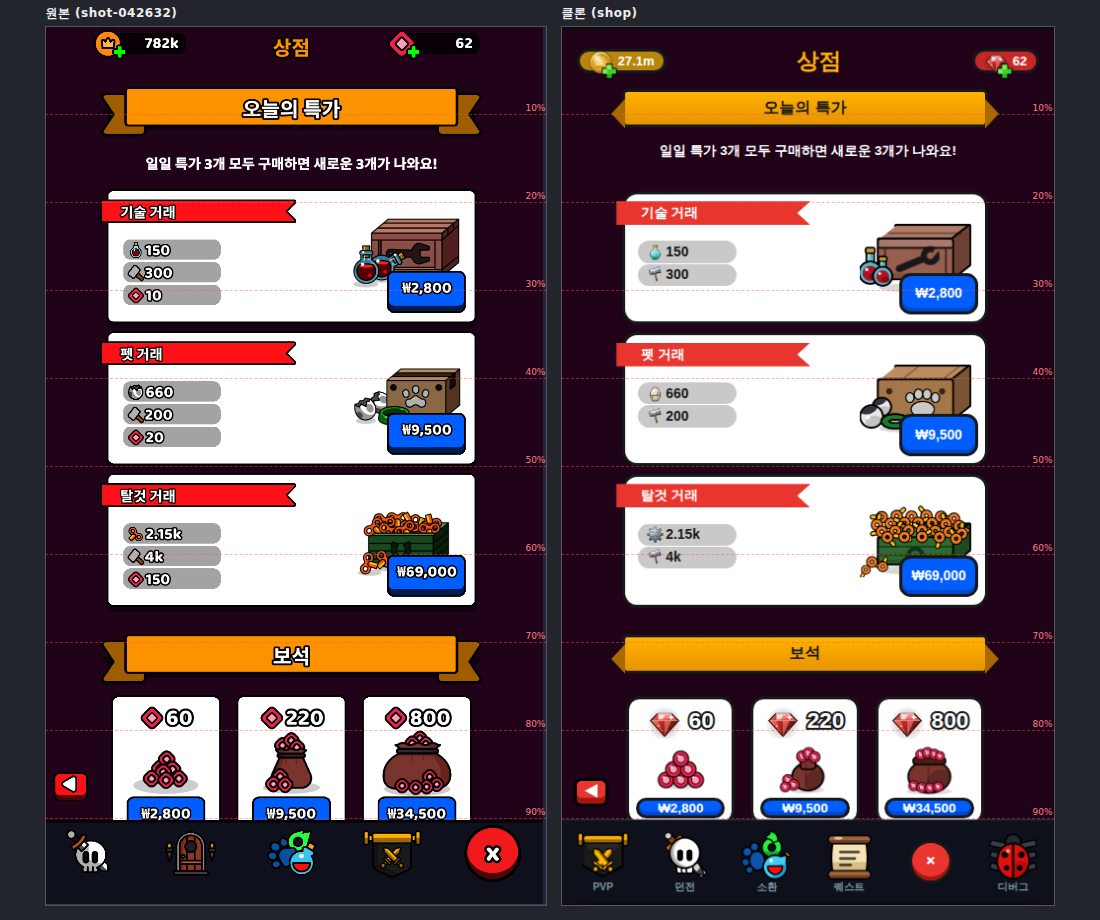
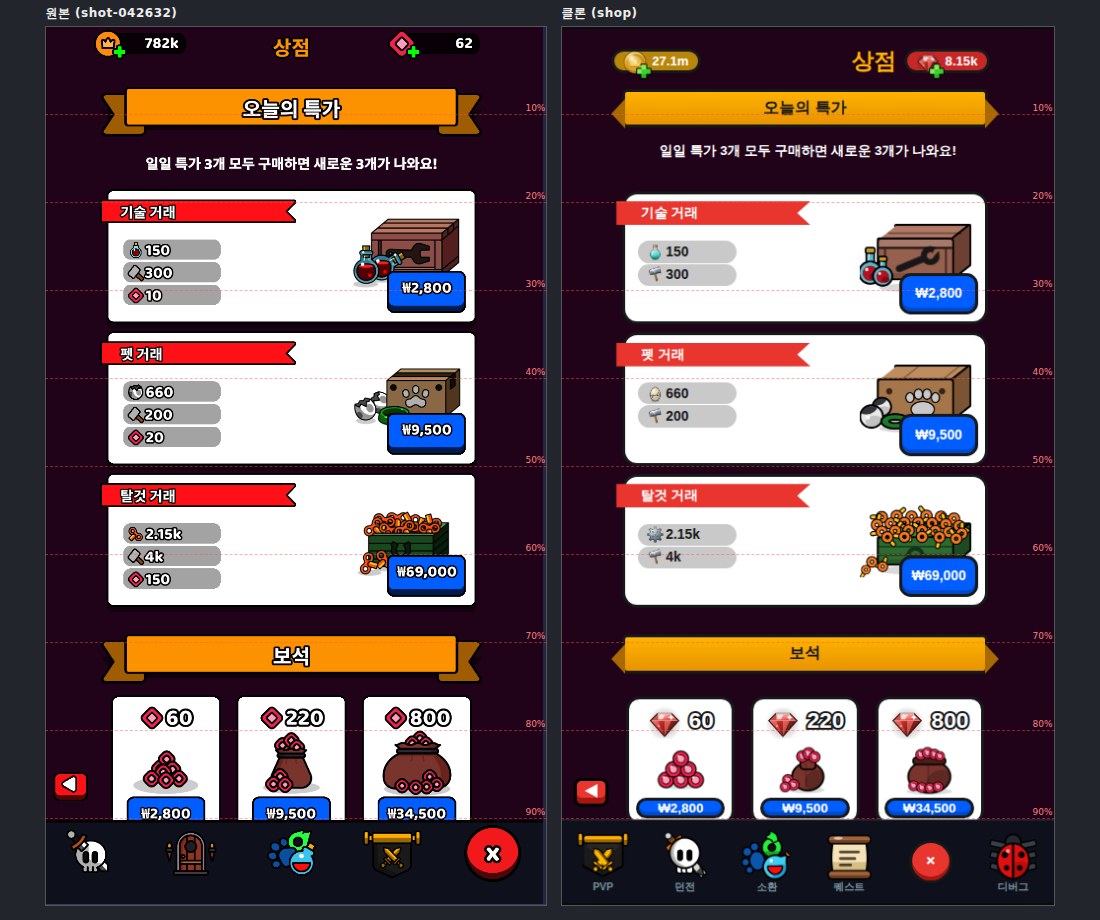
aaa-skin ③ 상점 — 상단 재화 pill 을 원본 고정 열로(코인 좌단 8.8%W·젬 좌단 68.4%W, 042632 실측; 종전 양끝 밀착으로 우측 ~10%p 이탈), 젬 보상 줄 누락 지적은 '젬 보급 전면 제거' 사양이라 채점 제외 확인. probe-shop-dom PASS

Changed region(s): [[0.7109, 0.0304, 0.9582, 0.0913], [0.5255, 0.0304, 0.6491, 0.0913]]

diff --git a/web/css/style.css b/web/css/style.css
@@ -3005,6 +3005,11 @@ body {
 /* ---- 스킬 화면 (UI-SPEC 8·11·14번): 5열 원형 아이콘 그리드 ---- */
 .sheet-head { display: flex; align-items: center; gap: .5rem; position: relative; }
 .sheet-head .sheet-title { flex: 1; }
+/* 상점(042632) 원본 실측: 재화 pill 이 화면 양끝이 아니라 **고정 열**에 앉는다 — 코인 pill 좌단
+   ~8.8%W(크라운 아이콘 x48=9.6%W), 젬 pill 좌단 68.4%W(아이콘 x342, 우단 x433=86.6%W).
+   클론은 시트 패딩만큼 양끝 밀착이라 우측이 ~10%p 벗어났다(채점 1라운드 A·B 공통 지적). */
+.shop-sheet .sheet-head { padding-left: calc(var(--app-w) * .088 - .55rem); }
+.shop-sheet .sheet-head .cur-pill.gem { position: absolute; left: calc(var(--app-w) * .684 - .55rem); }
 .cur-pill {
     background: #2b2b2b; color: #fff; border: var(--ol3) solid var(--pp-line); border-radius: 1rem;
     padding: .12rem .55rem; font-size: .78rem; font-weight: 800; white-space: nowrap;
